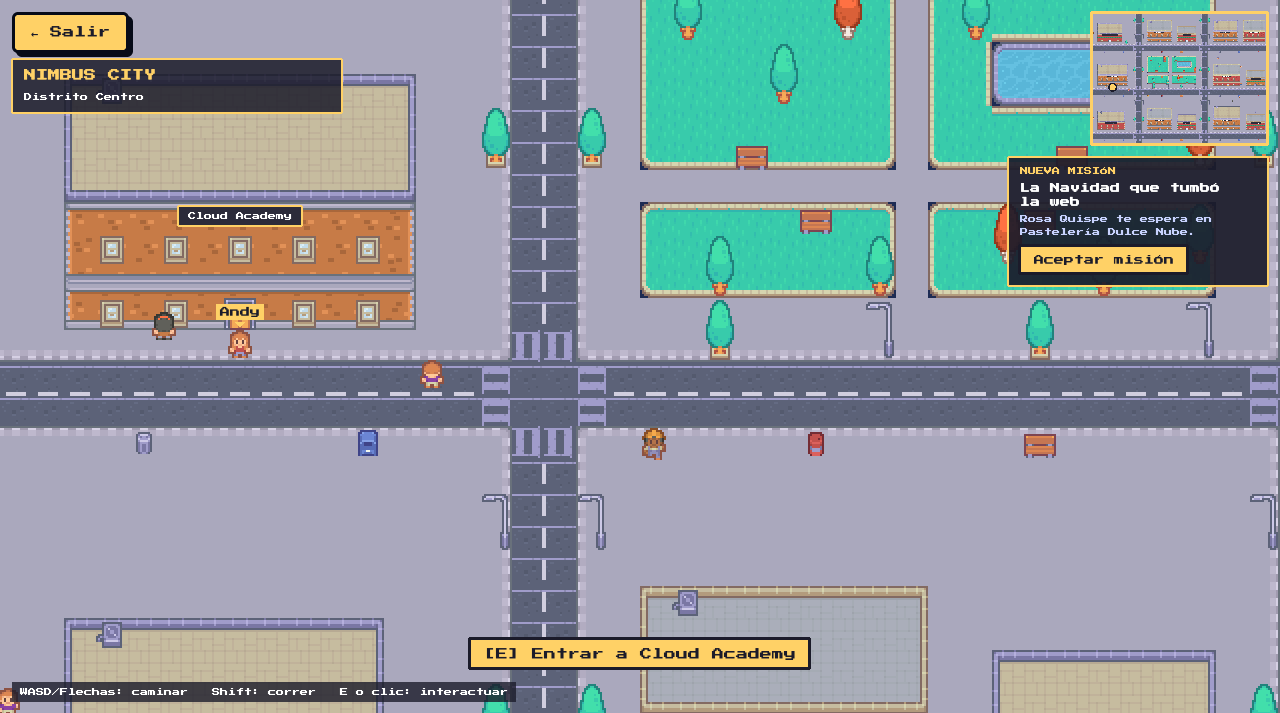
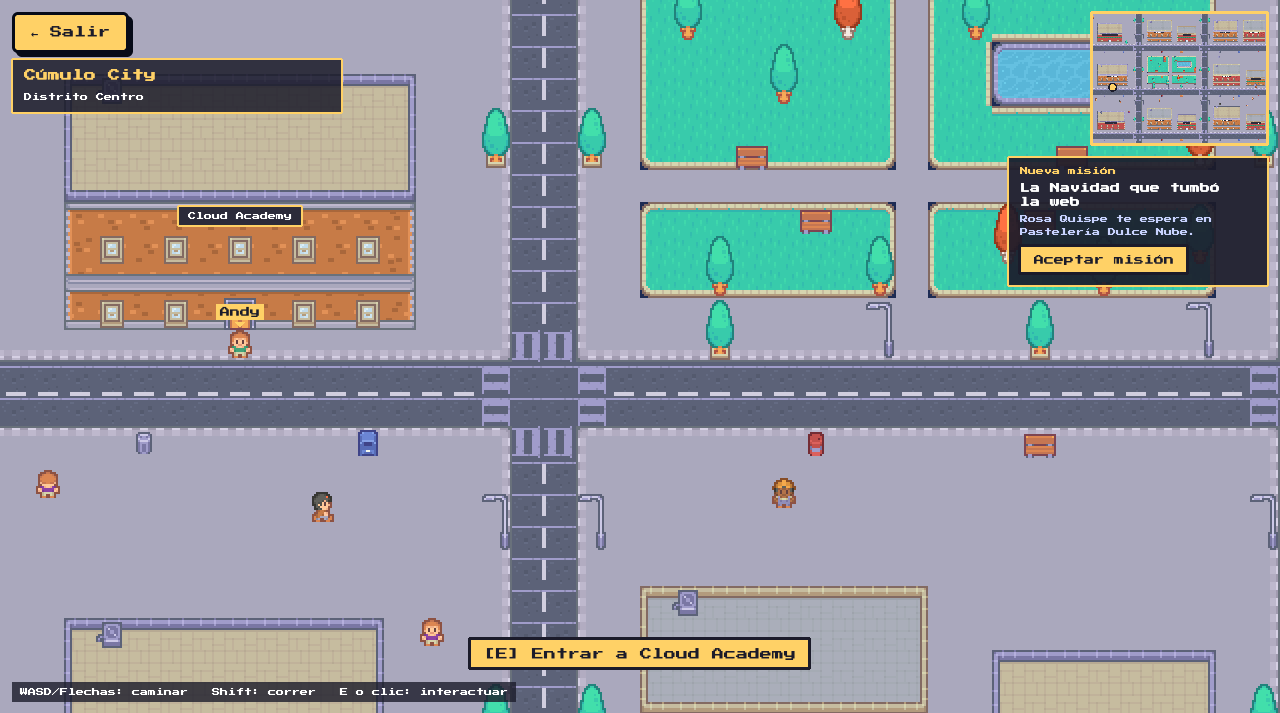
fix: show the game name with its accent and refresh the game screenshot

diff --git a/src/modules/games/cumulo-city/engine/scenes/HudScene.ts b/src/modules/games/cumulo-city/engine/scenes/HudScene.ts
@@ -165,7 +165,8 @@ export class HudScene extends Phaser.Scene {
 
   /** The current mission, under the minimap: offer with an accept button, objective, or all done. */
   private showMissionCard(content: MissionCardContent) {
-    this.cardHeading.setText(content.heading.toUpperCase());
+    // Mixed case on purpose: the pixel font draws accented capitals (Ó, Ú) without room for the accent.
+    this.cardHeading.setText(content.heading);
     this.cardTitle.setText(content.title);
     this.cardDetail.setText(content.detail).setY(this.cardTitle.y + this.cardTitle.height + 8);
     let bottom = this.cardDetail.y + this.cardDetail.height;
@@ -187,7 +188,7 @@ export class HudScene extends Phaser.Scene {
   }
 
   private showLocation(location: LocationInfo) {
-    this.locationTitle.setText(location.title.toUpperCase());
+    this.locationTitle.setText(location.title);
     this.locationSubtitle.setText(location.subtitle);
     this.minimapFrame.setVisible(location.minimap);
   }

diff --git a/src/modules/games/cumulo-city/engine/scenes/SelectScene.ts b/src/modules/games/cumulo-city/engine/scenes/SelectScene.ts
@@ -25,7 +25,7 @@ export class SelectScene extends Phaser.Scene {
 
   create() {
     this.cameras.main.setBackgroundColor('#1d2b53');
-    this.title = this.add.text(0, 0, 'CÚMULO CITY', { fontFamily: FONT, fontSize: '32px', color: '#ffd166' }).setOrigin(0.5);
+    this.title = this.add.text(0, 0, 'Cúmulo City', { fontFamily: FONT, fontSize: '32px', color: '#ffd166' }).setOrigin(0.5);
     this.subtitle = this.add
       .text(0, 0, 'Consultoría cloud · Nivel Practitioner', { fontFamily: FONT, fontSize: '12px', color: '#c7d2fe' })
       .setOrigin(0.5);
